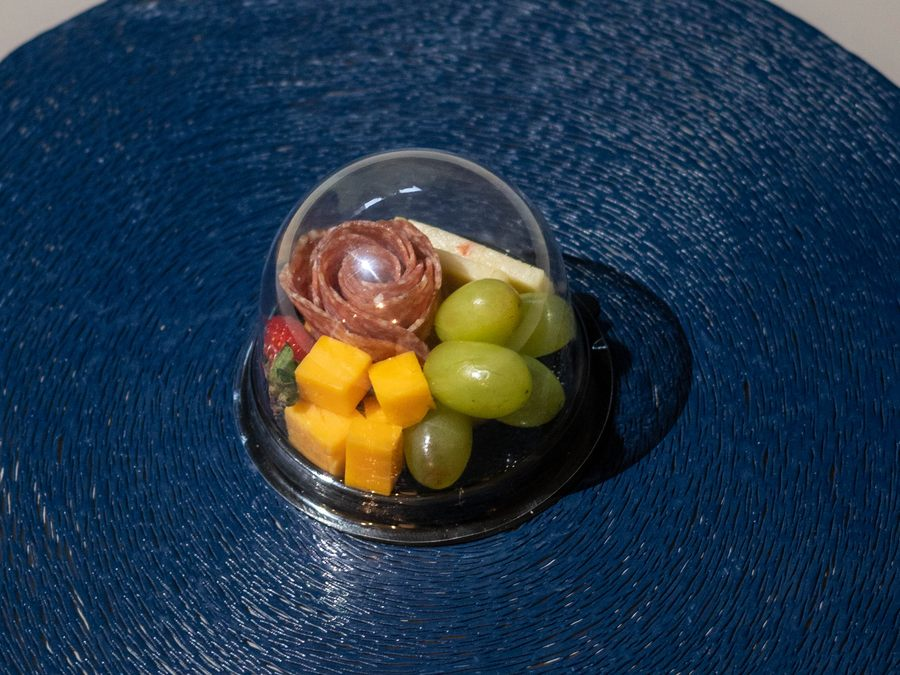
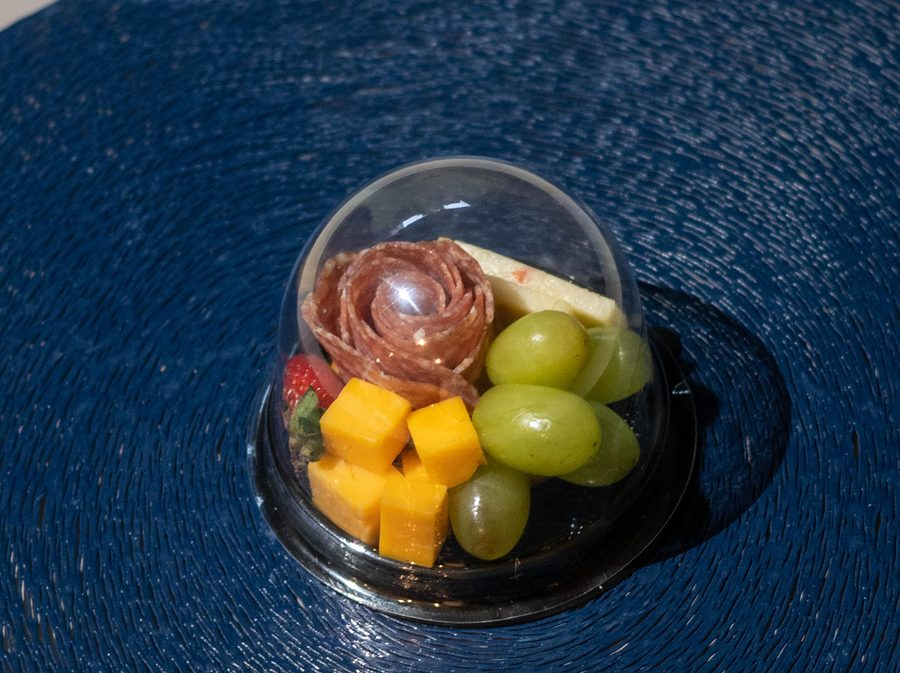
Nuevo orden, descripciones y Qué incluye, fotos ajustadas y productos 11 y 12
- The Tailored pasa al puesto 5; descripción, Qué incluye y tamaño/porciones/presentación de cada producto en Gotham Narrow.
- Recortes de fotos de boxes y domes (zoom sin corte del fondo azul, sin tapa); The Glass Dome pierde la foto 2.
- Nuevos: The Grazing Table (Q90 por persona, mínimo 20) y The Experience (Q150 c/u, mínimo 5 unidades).
- _worker.js y README al día.

Claude-Session: https://claude.ai/code/session_01Ctmu9SC9cSwcP38wG7RubU

diff --git a/gatheringsgt/assets/shared.js b/gatheringsgt/assets/shared.js
@@ -6,20 +6,46 @@ const WA = "50255412293";          // +502 5541 2293
 const CURRENCY = "Q";
 /* price: número en quetzales (IVA incluido), o null para "Cotizar". min: pedido mínimo de unidades (opcional).
    photo: foto de la tarjeta, ruta desde la raíz del sitio; vacío = recuadro «Foto próximamente».
-   gallery: fotos del detalle (la primera es la principal).  incl: lista «Qué incluye» (vacía = se confirma por WhatsApp). */
+   gallery: fotos del detalle (la primera es la principal).  incl: «Qué incluye» (texto, o lista de viñetas; vacío = se confirma por WhatsApp).
+   info: líneas «Tamaño», «Porciones» o «Presentación» ([[etiqueta, valor], ...]).  unit: unidad del precio si no es «c/u» (ej. "persona").  note: texto final del detalle. */
 const pics = (id, n) => Array.from({length: n}, (_, i) => `fotos/${id}/${i + 1}.jpg`);
-const PENDING = "Descripción próximamente. Escríbenos por chat para más información.";
 const PRODUCTS = [
-  {id:"single",    name:"The Single",    desc:"Práctica, individual y lista para disfrutar. Cubre 1 persona.",                         price:150,   photo:"fotos/single/card.jpg",    gallery:pics("single",5),    incl:[]},
-  {id:"cozy",      name:"The Cozy",      desc:"Perfecta para compartir en pareja o grupo pequeño. Cubre de 2 a 3 personas.",             price:260,  photo:"fotos/cozy/card.jpg",      gallery:pics("cozy",5),      incl:[]},
-  {id:"homestyle", name:"The Homestyle", desc:"Pensada para reuniones familiares o entre amigos. Cubre de 4 a 6 personas.",               price:500,  photo:"fotos/homestyle/card.jpg", gallery:pics("homestyle",5), incl:[]},
-  {id:"gathering", name:"The Gathering", desc:"Abundante, para encuentros especiales. Cubre de 7 a 10 personas.",                         price:800,  photo:"fotos/gathering/card.jpg", gallery:pics("gathering",5), incl:[]},
-  {id:"little-box",      name:"The Little Box",      desc:PENDING, price:65, min:5, photo:"fotos/little-box/card.jpg",      gallery:pics("little-box",2),      incl:[]},
-  {id:"celebration-box", name:"The Celebration Box", desc:PENDING, price:175, min:5, photo:"fotos/celebration-box/card.jpg", gallery:pics("celebration-box",4), incl:[]},
-  {id:"mini-dome",       name:"The Mini Dome",       desc:PENDING, price:30, min:10, photo:"fotos/mini-dome/card.jpg",       gallery:pics("mini-dome",2),       incl:[]},
-  {id:"big-dome",        name:"The Big Dome",        desc:PENDING, price:50, min:10, photo:"fotos/big-dome/card.jpg",        gallery:pics("big-dome",3),        incl:[]},
-  {id:"glass-dome",      name:"The Glass Dome",      desc:PENDING, price:75, min:10, photo:"fotos/glass-dome/card.jpg",      gallery:pics("glass-dome",3),      incl:[]},
-  {id:"tailored",  name:"The Tailored",  desc:"Hecha a la medida: ingredientes, cantidades y adaptaciones (sugar free, gluten free, entre otras). El precio varía.", price:null, photo:"fotos/tailored/card.jpg", gallery:pics("tailored",5), incl:[]}
+  {id:"single", name:"The Single", desc:"Pequeña selección gourmet para disfrutar algo especial en cualquier momento.", price:150, photo:"fotos/single/card.jpg", gallery:pics("single",5),
+   incl:"Uvas verdes sin semilla, quesos cheddar, suizo y pepper jack, dip de queso de cabra con frutos secos, salami imperial, salami español, miel, aceitunas, galletas multigrano, mini pretzels, dátiles y almendras cubiertas de chocolate.",
+   info:[["Tamaño","10 × 15 cm"],["Porciones","1–2 personas"]]},
+  {id:"cozy", name:"The Cozy", desc:"Perfecta para compartir en pareja o grupo pequeño.", price:260, photo:"fotos/cozy/card.jpg", gallery:pics("cozy",5),
+   incl:"Uvas verdes sin semilla, fresas frescas, quesos cheddar, suizo y pepper jack, dip de queso de cabra con frutos secos, salami imperial, salami español, miel, aceitunas, galletas multigrano, mini pretzels, pan, dátiles y almendras cubiertas de chocolate.",
+   info:[["Tamaño","20 × 30 cm"],["Porciones","2–3 personas"]]},
+  {id:"homestyle", name:"The Homestyle", desc:"Hecha para reunir a la familia y los amigos alrededor de una mesa llena de sabores.", price:500, photo:"fotos/homestyle/card.jpg", gallery:pics("homestyle",5),
+   incl:"Uvas verdes sin semilla, fresas frescas, quesos cheddar, suizo y pepper jack, dip de queso de cabra con frutos secos, salami imperial, salami español, jamón serrano, miel, aceitunas, galletas multigrano, mini pretzels, pan, dátiles y almendras cubiertas de chocolate.",
+   info:[["Tamaño","20 × 60 cm"],["Porciones","4–6 personas"]]},
+  {id:"gathering", name:"The Gathering", desc:"Abundante, artesanal y pensada para hacer extraordinarios los encuentros especiales.", price:800, photo:"fotos/gathering/card.jpg", gallery:pics("gathering",5),
+   incl:"Uvas verdes sin semilla, fresas frescas, quesos cheddar, suizo y pepper jack, dip de queso de cabra con frutos secos, salami imperial, salami español, jamón serrano, miel, aceitunas, galletas multigrano, mini pretzels, pan, dátiles y almendras cubiertas de chocolate.",
+   info:[["Tamaño","30 × 70 cm"],["Porciones","7–10 personas"]]},
+  {id:"tailored", name:"The Tailored", desc:"Una creación a tu medida, diseñada según tus gustos, tu ocasión y tu estilo.", price:null, photo:"fotos/tailored/card.jpg", gallery:pics("tailored",5),
+   incl:"Una selección personalizada de quesos, charcutería, frutas frescas y acompañamientos gourmet, definida según tus preferencias, la ocasión y tu presupuesto. Cada creación se diseña a tu medida.",
+   info:[]},
+  {id:"little-box", name:"The Little Box", desc:"Pequeño detalle gourmet, cuidadosamente presentado y listo para disfrutar.", price:65, min:5, photo:"fotos/little-box/card.jpg", gallery:pics("little-box",2),
+   incl:"Uvas verdes, queso cheddar, salami español, galletas multigrano, nueces naturales y almendras cubiertas de chocolate.",
+   info:[["Presentación","cajita de cartón blanco de 10 × 10 cm con tapa transparente."]]},
+  {id:"celebration-box", name:"The Celebration Box", desc:"Charcutería y vino en una presentación especial para sorprender, regalar y brindar.", price:175, min:5, photo:"fotos/celebration-box/card.jpg", gallery:pics("celebration-box",4),
+   incl:"Una mini botella de vino tinto o rosado, acompañada de The Little Box con uvas verdes, queso cheddar, salami español, galletas multigrano, nueces naturales y almendras cubiertas de chocolate.",
+   info:[["Presentación","caja de cartón blanco de 20 × 20 cm con ventana transparente."]]},
+  {id:"mini-dome", name:"The Mini Dome", desc:"Una porción individual de charcutería, ideal para eventos, detalles corporativos y regalos especiales.", price:30, min:10, photo:"fotos/mini-dome/card.jpg", gallery:pics("mini-dome",2),
+   incl:"Uvas verdes sin semilla, queso cheddar, salami español y fresa fresca.",
+   info:[["Presentación","mini domo transparente de plástico."]]},
+  {id:"big-dome", name:"The Big Dome", desc:"Una presentación especial de charcutería con una delicada flor de salami, perfecta para eventos, celebraciones y regalos memorables.", price:50, min:10, photo:"fotos/big-dome/card.jpg", gallery:pics("big-dome",3),
+   incl:"Una flor de salami español, uvas verdes sin semilla, fresa fresca, quesos cheddar y pepper jack, y galletas multigrano.",
+   info:[["Presentación","domo transparente de plástico."]]},
+  {id:"glass-dome", name:"The Glass Dome", desc:"Una pequeña creación gourmet bajo una elegante cúpula de vidrio.", price:75, min:10, photo:"fotos/glass-dome/card.jpg", gallery:pics("glass-dome",2),
+   incl:"Una flor de salami español, uvas verdes sin semilla, fresa fresca, queso cheddar y galletas multigrano.",
+   info:[["Presentación","elegante domo de vidrio."]]},
+  {id:"grazing-table", name:"The Grazing Table", desc:"Una mesa de charcutería diseñada a tu medida, con una selección gourmet para convertir cualquier celebración en un encuentro extraordinario.", price:90, min:20, unit:"persona", photo:"fotos/grazing-table/card.jpg", gallery:pics("grazing-table",6),
+   incl:["Mesa de charcutería con quesos, charcutería premium, frutas frescas y acompañamientos gourmet.","Selecciones y adicionales personalizados según tus preferencias y el estilo de tu evento.","Montaje y desmontaje de la mesa."],
+   info:[]},
+  {id:"experience", name:"The Experience", desc:"Una experiencia para crear, compartir y disfrutar. Aprende a armar tu propia tabla de charcutería y celebra alrededor de algo delicioso, hecho por ustedes.", price:150, min:5, photo:"fotos/experience/card.jpg", gallery:pics("experience",8),
+   incl:["Mínimo 5 unidades de The Single.","Una clase guiada de una hora para aprender a armar una tabla de charcutería, sin costo adicional.","Un momento para crear juntos y disfrutar de sus tablas mientras comparten."],
+   info:[], note:"Ideal para cumpleaños, reuniones entre amigos, celebraciones especiales o simplemente para hacer algo diferente."}
 ];
 /* ===================================== */
 
@@ -53,8 +79,9 @@ function pageUrl(params){
   return location.origin + location.pathname + (q ? "?" + q : "");
 }
 
-const priceTxt = p => p.price ? money(p.price) + (p.min ? " c/u" : "") : "Precio según tu pedido";
-const minTxt = p => p.min ? `<div class="minq">Pedido mínimo: ${p.min} unidades</div>` : "";
+const unitsTxt = (p, n) => n === 1 ? (p.unit ? "1 " + p.unit : "1 unidad") : n + (p.unit ? " " + p.unit + "s" : " unidades");
+const priceTxt = p => p.price ? money(p.price) + (p.unit ? " por " + p.unit : p.min ? " c/u" : "") : "Precio según tu pedido";
+const minTxt = p => p.min ? `<div class="minq">Pedido mínimo: ${unitsTxt(p, p.min)}</div>` : "";
 const titleHtml = n => /^The /.test(n) ? `<span class="ttl"><span class="the" role="img" aria-label="The"></span><span>${esc(n.slice(4))}</span></span>` : esc(n);
 const qtyHtml = p => `<div class="qty"><button type="button" data-chg="${p.id}" data-d="-1" aria-label="Quitar ${esc(p.name)}">−</button><span data-q="${p.id}">0</span><button type="button" data-chg="${p.id}" data-d="1" aria-label="Agregar ${esc(p.name)}">+</button>`;
 
@@ -77,13 +104,15 @@ function detailHtml(p){
 ${g.length > 1 ? `<button type="button" class="nav prev" data-gal="-1" aria-label="Foto anterior">‹</button><button type="button" class="nav next" data-gal="1" aria-label="Foto siguiente">›</button>
 <div class="thumbs" id="thumbs">${g.map((f, i) => `<button type="button" data-th="${i}" aria-label="Ver foto ${i + 1}"><img src="${ROOT}${esc(f)}" alt="" loading="lazy"></button>`).join("")}</div>` : ""}`
     : `<div class="gal ph0"><div class="ph">Foto próximamente</div></div>`;
-  const incl = p.incl && p.incl.length
+  const incl = Array.isArray(p.incl) && p.incl.length
     ? `<ul>${p.incl.map(x => `<li>${esc(x)}</li>`).join("")}</ul>`
+    : p.incl ? `<p>${esc(p.incl)}</p>`
     : `<p class="mut">El detalle de lo que incluye lo confirmamos por chat.</p>`;
+  const info = (p.info || []).length ? `<p class="spec">${p.info.map(([k, v]) => `<b>${esc(k)}:</b> ${esc(v)}`).join("<br>")}</p>` : "";
   return `<div class="dlg" role="dialog" aria-modal="true" aria-labelledby="dt"><button type="button" class="x" data-close aria-label="Cerrar">×</button>
 <div class="dg">${gal}</div>
 <div class="di"><h2 id="dt">${titleHtml(p.name)}</h2><div class="price">${priceTxt(p)}</div>${minTxt(p)}<p>${esc(p.desc)}</p>
-<h3>Qué incluye</h3>${incl}
+<h3>Qué incluye</h3>${incl}${info}${p.note ? `<p>${esc(p.note)}</p>` : ""}
 ${qtyHtml(p)}<button type="button" class="lnk" data-link="${p.id}">Copiar link</button></div>
 <a class="btn btn-line2" target="_blank" rel="noopener" href="${wa("Hola Gatherings, quisiera información sobre " + p.name + ".")}">Preguntar por este producto</a>
 <a class="btn btn-wa" href="#pedido" data-close>Ir a mi pedido</a></div></div>`;
@@ -121,12 +150,12 @@ function closeDetail(fromPop){
 function lines(){ return PRODUCTS.filter(p => cart[p.id]).map(p => ({p, n: cart[p.id]})); }
 
 function render(){
-  const L = lines(), n = L.reduce((a,x) => a + x.n, 0);
+  const L = lines(), n = L.reduce((a,x) => a + (x.p.unit ? 1 : x.n), 0);   /* por persona = 1 producto */
   const known = L.length && L.every(x => x.p.price), tot = L.reduce((a,x) => a + (x.p.price||0) * x.n, 0);
   document.querySelectorAll("[data-q]").forEach(e => { e.textContent = cart[e.dataset.q] || 0; });
   $("#cart").classList.toggle("on", n > 0);
   $("#cartTxt").textContent = n + (n === 1 ? " producto" : " productos") + (known && tot ? " · " + money(tot) : "");
-  $("#sum").innerHTML = n ? L.map(x => `${x.n} × ${esc(x.p.name)}`).join("<br>") : "Aún no has agregado nada. También puedes escribirnos directo para cotizar un evento.";
+  $("#sum").innerHTML = n ? L.map(x => `${x.p.unit ? unitsTxt(x.p, x.n) : x.n} × ${esc(x.p.name)}`).join("<br>") : "Aún no has agregado nada. También puedes escribirnos directo para cotizar un evento.";
   $("#saveBox").hidden = !n;
 }
 
@@ -154,7 +183,7 @@ function copy(text, okMsg){
 function send(e){
   e.preventDefault();
   const f = new FormData($("#f")), L = lines();
-  const items = L.length ? L.map(x => `• ${x.n} × ${x.p.name}${x.p.price ? " (" + money(x.p.price * x.n) + ")" : " (precio por confirmar)"}`).join("\n") : "• (sin productos: quiero cotizar)";
+  const items = L.length ? L.map(x => `• ${x.p.unit ? unitsTxt(x.p, x.n) : x.n} × ${x.p.name}${x.p.price ? " (" + money(x.p.price * x.n) + ")" : " (precio por confirmar)"}`).join("\n") : "• (sin productos: quiero cotizar)";
   const tot = L.length && L.every(x => x.p.price) ? "\nSubtotal tablas: " + money(L.reduce((a,x) => a + x.p.price * x.n, 0)) + " (envío aparte, Q35–Q45)" : "";
   const t = `Hola Gatherings, quiero hacer un pedido:\n${items}${tot}\n\nNombre: ${f.get("nombre")}\nFecha: ${f.get("fecha")}\nHorario de entrega: ${f.get("horario")}\nDirección: ${f.get("dir") || "-"}\nMensaje personalizado: ${f.get("mensaje") || "-"}\nNotas: ${f.get("notas") || "-"}`;
   window.open(wa(t), "_blank", "noopener");

diff --git a/gatheringsgt/_worker.js b/gatheringsgt/_worker.js
@@ -1,26 +1,28 @@
 /* Cloudflare Pages (modo avanzado): vista previa por producto al compartir links.
    WhatsApp y Facebook no ejecutan JavaScript, así que para /?p=<id> y /m/?p=<id> cambiamos aquí las etiquetas
    og:* por las del producto. Cualquier otra ruta se sirve tal cual.
-   Mantener PRODUCTS al día con assets/shared.js (nombre, precio, mínimo, foto). */
+   Mantener PRODUCTS al día con assets/shared.js (nombre, precio, mínimo, unidad, descripción). */
 
 const PRODUCTS = {
-  "single":          {name: "The Single",          price: 150, desc: "Práctica, individual y lista para disfrutar. Cubre 1 persona."},
-  "cozy":            {name: "The Cozy",            price: 260, desc: "Perfecta para compartir en pareja o grupo pequeño. Cubre de 2 a 3 personas."},
-  "homestyle":       {name: "The Homestyle",       price: 500, desc: "Pensada para reuniones familiares o entre amigos. Cubre de 4 a 6 personas."},
-  "gathering":       {name: "The Gathering",       price: 800, desc: "Abundante, para encuentros especiales. Cubre de 7 a 10 personas."},
-  "little-box":      {name: "The Little Box",      price: 65,  min: 5},
-  "celebration-box": {name: "The Celebration Box", price: 175, min: 5},
-  "mini-dome":       {name: "The Mini Dome",       price: 30,  min: 10},
-  "big-dome":        {name: "The Big Dome",        price: 50,  min: 10},
-  "glass-dome":      {name: "The Glass Dome",      price: 75,  min: 10},
-  "tailored":        {name: "The Tailored",        price: null, desc: "Hecha a la medida: ingredientes, cantidades y adaptaciones (sugar free, gluten free, entre otras)."}
+  "single": {name: "The Single", price: 150, desc: "Pequeña selección gourmet para disfrutar algo especial en cualquier momento."},
+  "cozy": {name: "The Cozy", price: 260, desc: "Perfecta para compartir en pareja o grupo pequeño."},
+  "homestyle": {name: "The Homestyle", price: 500, desc: "Hecha para reunir a la familia y los amigos alrededor de una mesa llena de sabores."},
+  "gathering": {name: "The Gathering", price: 800, desc: "Abundante, artesanal y pensada para hacer extraordinarios los encuentros especiales."},
+  "tailored": {name: "The Tailored", price: null, desc: "Una creación a tu medida, diseñada según tus gustos, tu ocasión y tu estilo."},
+  "little-box": {name: "The Little Box", price: 65, min: 5, desc: "Pequeño detalle gourmet, cuidadosamente presentado y listo para disfrutar."},
+  "celebration-box": {name: "The Celebration Box", price: 175, min: 5, desc: "Charcutería y vino en una presentación especial para sorprender, regalar y brindar."},
+  "mini-dome": {name: "The Mini Dome", price: 30, min: 10, desc: "Una porción individual de charcutería, ideal para eventos, detalles corporativos y regalos especiales."},
+  "big-dome": {name: "The Big Dome", price: 50, min: 10, desc: "Una presentación especial de charcutería con una delicada flor de salami, perfecta para eventos, celebraciones y regalos memorables."},
+  "glass-dome": {name: "The Glass Dome", price: 75, min: 10, desc: "Una pequeña creación gourmet bajo una elegante cúpula de vidrio."},
+  "grazing-table": {name: "The Grazing Table", price: 90, min: 20, unit: "persona", desc: "Una mesa de charcutería diseñada a tu medida, con una selección gourmet para convertir cualquier celebración en un encuentro extraordinario."},
+  "experience": {name: "The Experience", price: 150, min: 5, desc: "Una experiencia para crear, compartir y disfrutar. Aprende a armar tu propia tabla de charcutería y celebra alrededor de algo delicioso, hecho por ustedes."}
 };
 
 const PAGES = new Set(["/", "/index.html", "/m", "/m/", "/m/index.html"]);
 
 const cleanDesc = (p) => {
-  const precio = p.price == null ? "Precio según tu pedido" : `Q${p.price}${p.min ? " c/u" : ""}`;
-  const minimo = p.min ? ` · Pedido mínimo: ${p.min} unidades` : "";
+  const precio = p.price == null ? "Precio según tu pedido" : `Q${p.price}${p.unit ? " por " + p.unit : p.min ? " c/u" : ""}`;
+  const minimo = p.min ? ` · Pedido mínimo: ${p.min} ${p.unit ? p.unit + "s" : "unidades"}` : "";
   return `${precio}${minimo}. ${p.desc ? p.desc + " " : ""}Pedí por WhatsApp.`;
 };
 

diff --git a/gatheringsgt/assets/detail.css b/gatheringsgt/assets/detail.css
@@ -39,3 +39,11 @@
 .ttl{display:inline-flex;align-items:baseline;justify-content:center;gap:.1em;text-transform:uppercase;letter-spacing:.04em}
 .ttl .the{display:inline-block;flex:none;width:2.05em;height:1.37em;background:currentColor;-webkit-mask:url(brand/the-azul.png) center/contain no-repeat;mask:url(brand/the-azul.png) center/contain no-repeat}
 .minq{font:13px var(--sans);color:var(--navy);margin:2px 0 4px}
+
+/* Descripciones, «Qué incluye», tamaño y porciones: Gotham Narrow (los títulos siguen en Rossten). */
+.card p,.di p,.di li,.di .spec{font-family:var(--sans)}
+.card p{font-size:15px}
+.di p,.di li{font-size:16px;line-height:1.5}
+.di .spec{margin:10px 0;color:var(--ink)}
+.di .spec b{color:var(--navy)}
+.di ul li{margin:0 0 4px}

diff --git a/gatheringsgt/README.md b/gatheringsgt/README.md
@@ -16,8 +16,9 @@ La persona puede forzar una versión con el link «Ver versión móvil / de escr
 - Pedido guardado: `/?pedido=cozy.2,single.1`; restaura el carrito en cualquier dispositivo. El carrito y el borrador del formulario también se guardan en el navegador.
 
 ## Cómo editar y redesplegar
-- Productos, precios, descripciones y fotos: constante `PRODUCTS` en `assets/shared.js`. `photo` es la foto de la tarjeta, `gallery` las fotos del detalle (`pics("cozy",5)` = `fotos/cozy/1.jpg`…`5.jpg`) e `incl` la lista de «Qué incluye» (vacía = «lo confirmamos por WhatsApp»).
-- Pendiente (JOBS-159): precio, descripción y «Qué incluye» de The Little Box, The Celebration Box, The Mini Dome, The Big Dome y The Glass Dome; hoy se cotizan por WhatsApp. Las fotos se prepararon a 1200 px y menos de ~150 KB desde la carpeta «Photos gatherings.com».
+- Productos, precios, descripciones y fotos: constante `PRODUCTS` en `assets/shared.js` (el orden de la lista es el del menú). `photo` es la foto de la tarjeta, `gallery` las fotos del detalle (`pics("cozy",5)` = `fotos/cozy/1.jpg`…`5.jpg`) e `incl` la lista de «Qué incluye» (vacía = «lo confirmamos por WhatsApp»).
+- Cada producto lleva además `info` (líneas «Tamaño», «Porciones» o «Presentación»), `unit` (unidad del precio cuando no es «c/u»; The Grazing Table se pide por persona) y `note` (texto final del detalle). `incl` es un texto o una lista de viñetas.
+- Fotos de boxes y domes: las que se ajustaron (zoom sin el corte del fondo azul, sin la tapa de las cajas) están ya recortadas en 4:3 (1200 × 900), porque la galería muestra las fotos en 4:3 y recorta al centro lo que sobra.
 - Vista previa al compartir: `_worker.js` (Cloudflare Pages, modo avanzado) cambia las etiquetas `og:*` de `/?p=<id>` y `/m/?p=<id>` por las del producto (nombre, precio y foto de su tarjeta). WhatsApp y Facebook no ejecutan JavaScript, por eso se hace en el servidor. La lista `PRODUCTS` de `_worker.js` hay que mantenerla igual que la de `assets/shared.js` (nombre, precio, mínimo). Para refrescar una vista previa ya guardada: Facebook Sharing Debugger, o probar el link con un parámetro extra (`&x=1`).
 - Desplegar: Cloudflare → Workers & Pages → gatheringsgt → Create deployment → subir un zip con **toda esta carpeta** (`index.html`, `m/`, `assets/` y las fotos) como Production.
 
